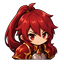
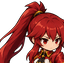
Prepare Elesis v0.4.17

diff --git a/ElesisCode/Character/Elesis.cs b/ElesisCode/Character/Elesis.cs
@@ -1,4 +1,5 @@
 using BaseLib.Abstracts;
+using BaseLib.Utils.NodeFactories;
 using Elesis.ElesisCode.Cards;
 using Elesis.ElesisCode.Cards.Basic;
 using Elesis.ElesisCode.Extensions;
@@ -34,8 +35,18 @@ public class Elesis : CustomCharacterModel
     public override string CustomRestSiteAnimPath => $"{MainFile.ResPath}/scenes/rest_site/elesis_rest.tscn";
     public override string CustomTrailPath => "res://scenes/vfx/card_trail_ironclad.tscn";
     public override string CustomEnergyCounterPath => $"{MainFile.ResPath}/scenes/combat/elesis_energy_counter.tscn";
+    public override Control CustomIcon
+    {
+        get
+        {
+            var icon = NodeFactory<Control>.CreateFromResource(CustomIconTexturePath);
+            icon.SetAnchorsAndOffsetsPreset(Control.LayoutPreset.FullRect);
+            return icon;
+        }
+    }
+
     public override string CustomIconPath => SceneHelper.GetScenePath("ui/character_icons/ironclad_icon");
-    public override string CustomIconOutlineTexturePath => ImageHelper.GetImagePath("ui/top_panel/character_icon_ironclad_outline.png");
+    public override string CustomIconOutlineTexturePath => "elesis_map_marker.png".CharacterUiPath();
     public override string CustomArmPointingTexturePath => ImageHelper.GetImagePath("ui/hands/multiplayer_hand_ironclad_point.png");
     public override string CustomArmRockTexturePath => ImageHelper.GetImagePath("ui/hands/multiplayer_hand_ironclad_rock.png");
     public override string CustomArmPaperTexturePath => ImageHelper.GetImagePath("ui/hands/multiplayer_hand_ironclad_paper.png");

diff --git a/docs/ARCHITECTURE.md b/docs/ARCHITECTURE.md
@@ -7,7 +7,7 @@
 - `Elesis/`: Godot resources, localization, and runtime assets included in the `.pck`.
 - `ElesisCode/`: C# mod code.
 - `ElesisCode/MainFile.cs`: mod initializer; registers the custom Elesis character with BaseLib.
-- `ElesisCode/Character/Elesis.cs`: custom character model. Elesis intentionally extends `CustomCharacterModel`, matching the working Hologirl mod pattern; `PlaceholderCharacterModel` retained vanilla fallback icon behavior and made character selection unreliable. Elesis uses generated static scenes for combat and rest-site visuals, with Ironclad fallbacks retained for audio, transition, trail, merchant animation, top-panel icon scene, icon outline, and multiplayer hand textures until custom STS2-safe replacements exist.
+- `ElesisCode/Character/Elesis.cs`: custom character model. Elesis intentionally extends `CustomCharacterModel`, matching the working Hologirl mod pattern; `PlaceholderCharacterModel` retained vanilla fallback icon behavior and made character selection unreliable. Elesis uses generated static scenes for combat and rest-site visuals. Ironclad fallbacks remain for audio, transition, trail, merchant animation, and multiplayer hand textures until custom STS2-safe replacements exist. The run/top-panel icon is generated from Elesis' custom icon texture, and the multiplayer map outline uses the Elesis map marker texture.
 - `ElesisCode/Cards/ElesisKeywords.cs`: custom BaseLib `CardKeyword` definitions used to show hover-tip boxes for Elesis mechanics on card hover.
 - `Elesis/scenes/creature_visuals/`, `Elesis/scenes/combat/`, and `Elesis/scenes/rest_site/`: static scenes used by BaseLib's character scene conversion hooks. Combat visuals must provide a `Visuals` child plus combat anchor nodes so BaseLib can convert the scene to `NCreatureVisuals`. The custom energy counter scene supplies Elesis' large energy orb while BaseLib generates the required label and particle containers.
 - `ElesisCode/Relics/BelderKnightEmblem.cs`: starter relic used so character selection and run start have an Elesis-owned relic model to display and equip.

diff --git a/docs/DESIGN.md b/docs/DESIGN.md
@@ -14,5 +14,6 @@ Confirmed design direction:
 - Map marker art currently uses the previous larger Elesis marker because it reads better in-game than the experimental silhouette pass.
 - Combat, shop, and rest-site character art use transparent sprite assets with bottom-aligned scene placement. Combat art leans more chibi/readable than the larger menu illustrations so her feet align cleanly with other player visuals.
 - Card portraits use the combat chibi Elesis as a shared readable character motif. Attack portraits lean red with slash/flame shapes, Skill portraits lean blue with guard/movement shapes, and Power portraits use warmer mystical crest effects.
+- Compendium and run/top-panel icon art uses only Elesis' chibi head. Map movement art uses a compact red-and-gold Elesis pin with a small flame accent.
 
 Do not treat generated art attempts as final until one is explicitly selected as the project asset.

diff --git a/docs/releases/v0.4.17.md b/docs/releases/v0.4.17.md
@@ -1,0 +1,5 @@
+# Elesis v0.4.17
+
+- Replaces the compendium icon with a 64x64 chibi head-only Elesis portrait.
+- Uses the same custom icon for Elesis' in-run top-left character icon.
+- Replaces the map/multiplayer marker with a compact red-and-gold Elesis pin with a flame accent.
